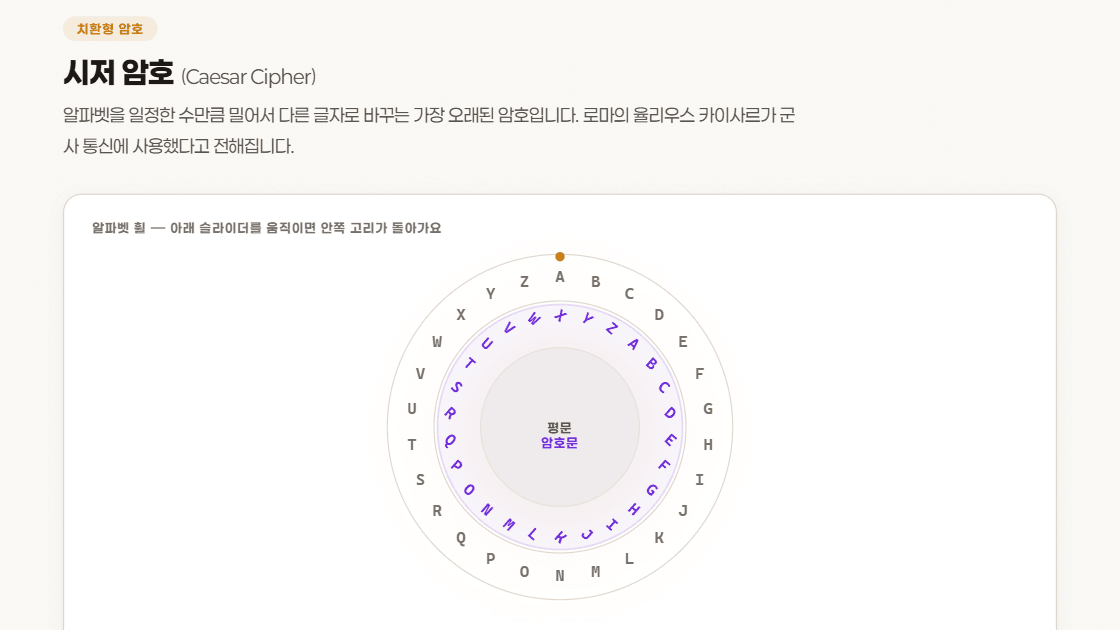
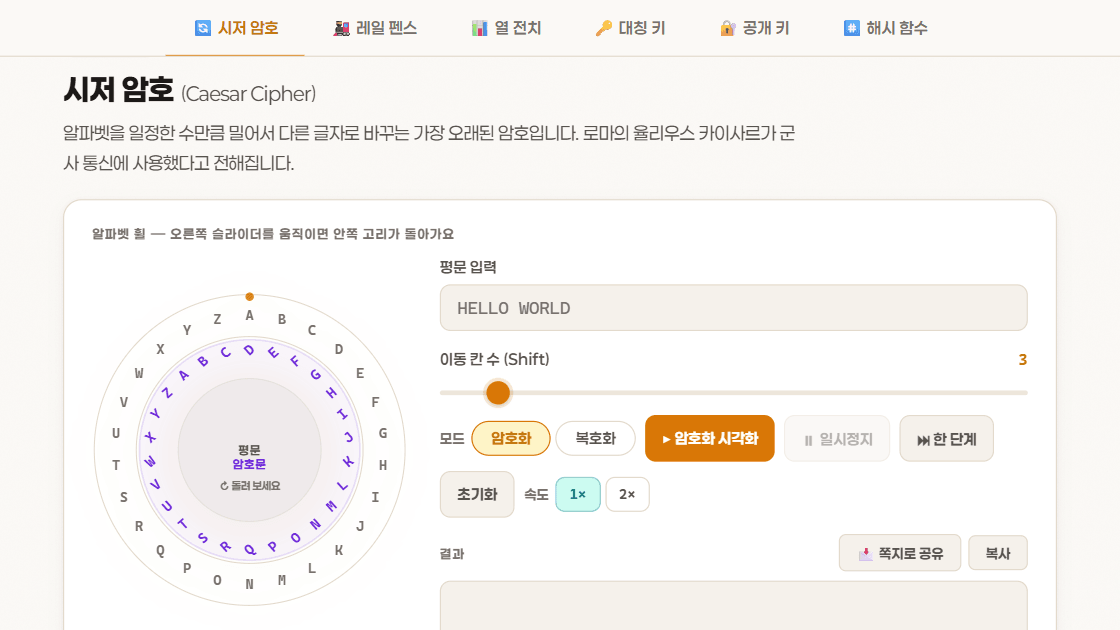
chore(appstore): 암호의 세계 썸네일을 개편된 화면(휠·조작부 작업대)으로 다시 찍음, 캐시 jungle-v90

diff --git a/sw.js b/sw.js
@@ -1,4 +1,4 @@
-const CACHE = 'jungle-v89';
+const CACHE = 'jungle-v90';
 
 const ASSETS = [
   './',
